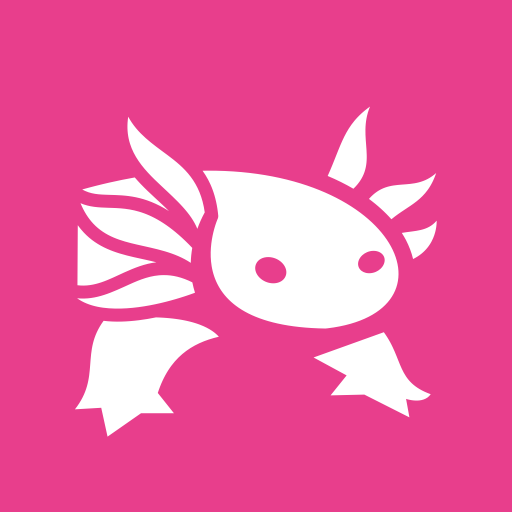
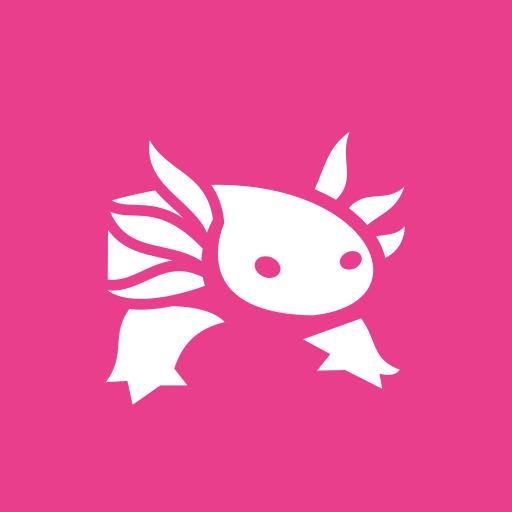
Pull-to-refresh, iconos claro/oscuro y splash screen neutra (v1.5.0)
Pull-to-refresh:
- Jalar desde arriba (estando hasta arriba) recarga la app: trae datos
  frescos y detecta versión nueva. Reemplaza el gesto nativo que no
  existe en la PWA de iOS. Indicador con spinner y 'Suelta para actualizar'

Iconos:
- Favicon de pestaña adaptativo al tema del SO (claro/oscuro) vía media
- Variantes de ícono de instalación claro y oscuro generadas

Splash screen (iOS + Android):
- Diseño genérico neutro (ciruela #1e1626) con ajolote rosa y nombre en
  blanco: armónico y con buen contraste en cualquier tema
- iOS: apple-touch-startup-image para los iPhone más comunes (8 tamaños)
- Android: background_color/theme_color del manifest a juego
- Splash e íconos variantes fuera del precache del SW (no pesan)

Changed region(s): [[0.125, 0.2188, 0.875, 0.8438], [0.5, 0.5, 0.5625, 0.5625]]

diff --git a/src/App.jsx b/src/App.jsx
@@ -30,6 +30,93 @@ function ActualizacionDisponible() {
   )
 }
 
+// Jalar desde arriba para actualizar (pull-to-refresh). En la PWA de iOS no
+// existe el gesto nativo; este lo reemplaza: al estar hasta arriba y jalar
+// hacia abajo, recarga la app (trae datos frescos y detecta versión nueva).
+function PullToRefresh() {
+  const [dist, setDist] = useState(0)
+  const [refreshing, setRefreshing] = useState(false)
+  const startY = useRef(null)
+  const distRef = useRef(0)
+  const UMBRAL = 72
+  const MAX = 110
+
+  useEffect(() => {
+    const onStart = (e) => {
+      startY.current =
+        window.scrollY <= 0 && e.touches.length === 1 ? e.touches[0].clientY : null
+    }
+    const onMove = (e) => {
+      if (startY.current == null || refreshing) return
+      const dy = e.touches[0].clientY - startY.current
+      if (dy <= 0 || window.scrollY > 0) {
+        startY.current = null
+        if (distRef.current) {
+          distRef.current = 0
+          setDist(0)
+        }
+        return
+      }
+      const d = Math.min(dy * 0.5, MAX) // resistencia elástica
+      distRef.current = d
+      setDist(d)
+      if (d > 4 && e.cancelable) e.preventDefault() // frena el scroll mientras se jala
+    }
+    const onEnd = () => {
+      if (startY.current == null) return
+      startY.current = null
+      if (distRef.current >= UMBRAL) {
+        setRefreshing(true)
+        setDist(UMBRAL)
+        setTimeout(() => window.location.reload(), 400)
+      } else {
+        distRef.current = 0
+        setDist(0)
+      }
+    }
+    document.addEventListener('touchstart', onStart, { passive: true })
+    document.addEventListener('touchmove', onMove, { passive: false })
+    document.addEventListener('touchend', onEnd, { passive: true })
+    document.addEventListener('touchcancel', onEnd, { passive: true })
+    return () => {
+      document.removeEventListener('touchstart', onStart)
+      document.removeEventListener('touchmove', onMove)
+      document.removeEventListener('touchend', onEnd)
+      document.removeEventListener('touchcancel', onEnd)
+    }
+  }, [refreshing])
+
+  const visible = dist > 0 || refreshing
+  const listo = dist >= UMBRAL
+  return (
+    <div
+      className={`ptr${visible ? ' visible' : ''}`}
+      style={{ transform: `translate(-50%, ${visible ? Math.min(dist, MAX) : -20}px)` }}
+      aria-hidden={!visible}
+    >
+      <span className={`ptr-spinner${refreshing ? ' spinning' : ''}`}>
+        <svg
+          viewBox="0 0 24 24"
+          width="20"
+          height="20"
+          fill="none"
+          stroke="currentColor"
+          strokeWidth="2.2"
+          strokeLinecap="round"
+          strokeLinejoin="round"
+          style={{ transform: refreshing ? undefined : `rotate(${dist * 2.6}deg)` }}
+        >
+          <path d="M21 12a9 9 0 1 1-2.64-6.36" />
+          <path d="M21 3v6h-6" />
+        </svg>
+      </span>
+      <span className="ptr-text">
+        {refreshing ? 'Actualizando…' : listo ? 'Suelta para actualizar' : 'Jala para actualizar'}
+      </span>
+    </div>
+  )
+}
+
 // Puerta de emergencia: con ?admin en la URL se puede corregir un resultado
 // a mano (por si la API fallara). En uso normal la app es solo de consulta.
 const ES_ADMIN = new URLSearchParams(window.location.search).has('admin')
@@ -1136,6 +1223,7 @@ export default function App() {
 
   return (
     <div className="app">
+      <PullToRefresh />
       <ActualizacionDisponible />
       <header className="header">
         <div className="header-top">

diff --git a/src/styles.css b/src/styles.css
@@ -1060,6 +1060,54 @@ body {
   font-variant-numeric: tabular-nums;
 }
 
+/* ── Pull to refresh (jalar para actualizar) ── */
+.ptr {
+  position: fixed;
+  top: env(safe-area-inset-top);
+  left: 50%;
+  z-index: 90;
+  display: flex;
+  flex-direction: column;
+  align-items: center;
+  gap: 4px;
+  padding-top: 6px;
+  color: var(--muted);
+  opacity: 0;
+  pointer-events: none;
+  transition: opacity 0.2s ease;
+}
+
+.ptr.visible {
+  opacity: 1;
+}
+
+.ptr-spinner {
+  display: inline-flex;
+  color: var(--accent);
+}
+
+.ptr-spinner.spinning {
+  animation: ptr-spin 0.8s linear infinite;
+}
+
+@keyframes ptr-spin {
+  to {
+    transform: rotate(360deg);
+  }
+}
+
+.ptr-text {
+  font-size: 0.7rem;
+  font-weight: 700;
+}
+
+/* La app se prohíbe rebotar en el eje vertical del navegador para que nuestro
+   gesto no compita con el "overscroll" nativo */
+html,
+body {
+  overscroll-behavior-y: contain;
+}
+
 /* ── Aviso de nueva versión ── */
 .update-toast {
   position: fixed;

diff --git a/index.html b/index.html
@@ -10,6 +10,9 @@
     <meta name="theme-color" media="(prefers-color-scheme: light)" content="#f1ecf6" />
     <meta name="theme-color" media="(prefers-color-scheme: dark)" content="#16101c" />
     <title>Tómbola del Ajolotl</title>
+    <!-- Favicon adaptativo: el ícono de la pestaña se ajusta al tema del SO -->
+    <link rel="icon" href="/favicon-light.svg" media="(prefers-color-scheme: light)" type="image/svg+xml" />
+    <link rel="icon" href="/favicon-dark.svg" media="(prefers-color-scheme: dark)" type="image/svg+xml" />
     <link rel="icon" href="/ajolote.svg" type="image/svg+xml" />
     <link rel="manifest" href="/manifest.webmanifest" />
     <link rel="apple-touch-icon" href="/apple-touch-icon.png" />
@@ -19,6 +22,15 @@
          el header) y su texto se adapta a claro/oscuro -->
     <meta name="apple-mobile-web-app-status-bar-style" content="default" />
     <meta name="apple-mobile-web-app-title" content="Tómbola" />
+    <!-- Splash screens de iOS (Android la genera solo desde el manifest) -->
+    <link rel="apple-touch-startup-image" media="(device-width:430px) and (device-height:932px) and (-webkit-device-pixel-ratio:3) and (orientation:portrait)" href="/splash/1290x2796.png" />
+    <link rel="apple-touch-startup-image" media="(device-width:393px) and (device-height:852px) and (-webkit-device-pixel-ratio:3) and (orientation:portrait)" href="/splash/1179x2556.png" />
+    <link rel="apple-touch-startup-image" media="(device-width:390px) and (device-height:844px) and (-webkit-device-pixel-ratio:3) and (orientation:portrait)" href="/splash/1170x2532.png" />
+    <link rel="apple-touch-startup-image" media="(device-width:375px) and (device-height:812px) and (-webkit-device-pixel-ratio:3) and (orientation:portrait)" href="/splash/1125x2436.png" />
+    <link rel="apple-touch-startup-image" media="(device-width:414px) and (device-height:896px) and (-webkit-device-pixel-ratio:3) and (orientation:portrait)" href="/splash/1242x2688.png" />
+    <link rel="apple-touch-startup-image" media="(device-width:414px) and (device-height:896px) and (-webkit-device-pixel-ratio:2) and (orientation:portrait)" href="/splash/828x1792.png" />
+    <link rel="apple-touch-startup-image" media="(device-width:375px) and (device-height:667px) and (-webkit-device-pixel-ratio:2) and (orientation:portrait)" href="/splash/750x1334.png" />
+    <link rel="apple-touch-startup-image" media="(device-width:414px) and (device-height:736px) and (-webkit-device-pixel-ratio:3) and (orientation:portrait)" href="/splash/1242x2208.png" />
   </head>
   <body>
     <div id="root"></div>

diff --git a/vite.config.js b/vite.config.js
@@ -29,7 +29,10 @@ export default defineConfig({
       injectRegister: null, // el registro lo hace useRegisterSW en la app
       manifest: false, // usamos el manifest propio en public/
       workbox: {
-        globPatterns: ['**/*.{js,css,html,svg,png,woff2}'],
+        globPatterns: ['**/*.{js,css,html,svg,woff2}', 'icon-192.png', 'icon-512.png'],
+        // Las splash y las variantes de ícono las carga el SO al abrir; no vale
+        // la pena precachearlas (pesan y no se necesitan offline)
+        globIgnores: ['splash/**', 'icon-light-*.png', 'icon-dark-*.png'],
         navigateFallback: '/index.html',
         cleanupOutdatedCaches: true,
       },